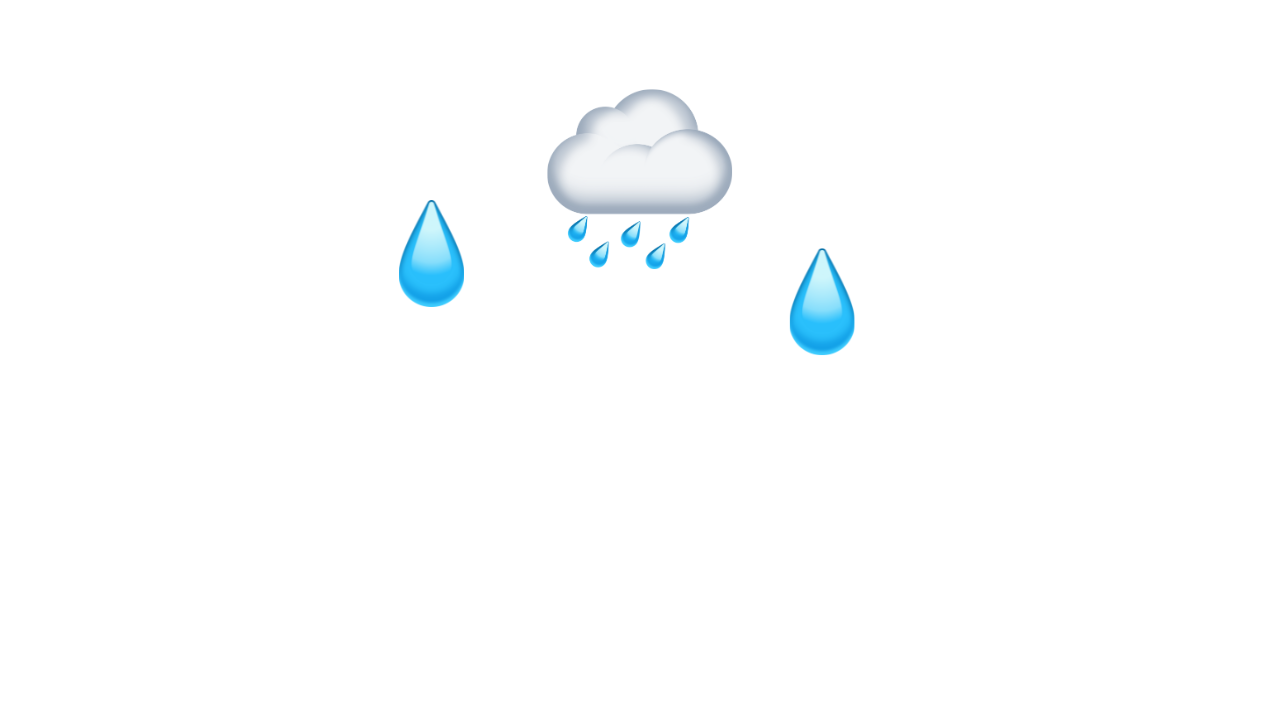
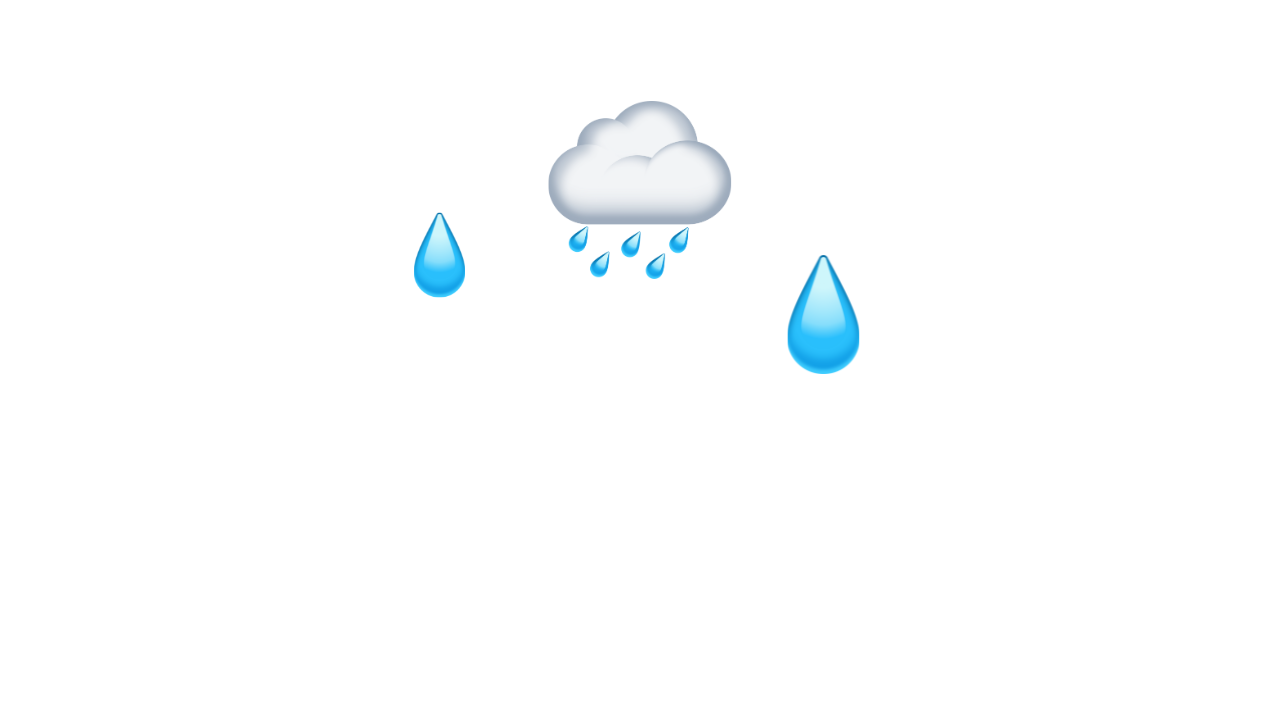
Image mapping
Process weather.type from GET request to assign images

Changed region(s): [[0.4062, 0.1222, 0.5938, 0.3972], [0.5938, 0.3361, 0.6875, 0.5194], [0.3125, 0.275, 0.375, 0.4278]]

diff --git a/weather-finder/src/Components/WeatherFinder.jsx b/weather-finder/src/Components/WeatherFinder.jsx
@@ -2,6 +2,7 @@ import sunny from "../assets/images/sunny.png"
 import cloudy from "../assets/images/cloudy.png"
 import rainy from "../assets/images/rainy.png"
 import snowy from "../assets/images/snowy.png"
+import thunder from "../assets/images/thunder.png"
 import { useState, useEffect } from "react"
 
 const WeatherFinder = () => {
@@ -40,7 +41,27 @@ const WeatherFinder = () => {
       setLocation("")
     }
 
-  }   
+  }
+
+  // map images to **common** OpenWeatherAPI weather types
+  const weatherImages = {
+    Clear: sunny,
+    Clouds: cloudy,
+    Rain: rainy,
+    Drizzle: rainy,
+    Thunderstorm: thunder,
+    Snow: snowy,
+    Haze: cloudy,
+    Mist: cloudy,
+    Smoke: cloudy
+  }
+
+  // check existence prior to assigning image
+  const weatherImage = data.weather ? weatherImages[data.weather[0].main] : null 
+  
+  
+
+
   return (
     <div className="container">
       <div className="weather-app">
@@ -55,7 +76,7 @@ const WeatherFinder = () => {
           </div>
         </div>
         <div className="weather">
-          <img src={snowy} alt="sunny"/>
+          <img src={weatherImage} alt="weather"/>
           <div className="weather-type">{data.weather ? `${(data.weather[0].main)}` : null}</div>
           <div className="temp">{data.main ? `${Math.floor(data.main.temp)}ºC` : null}</div>
           <div className="feels-like">{data.weather ? `Feels Like: ${(data.main.feels_like)}ºC` : null}</div>

diff --git a/weather-finder/src/Components/WeatherFinder.css b/weather-finder/src/Components/WeatherFinder.css
@@ -57,7 +57,6 @@
 }
 
 .search-bar{
-    padding: 0.8rem;
     position: relative;
     z-index: 2;
 }
